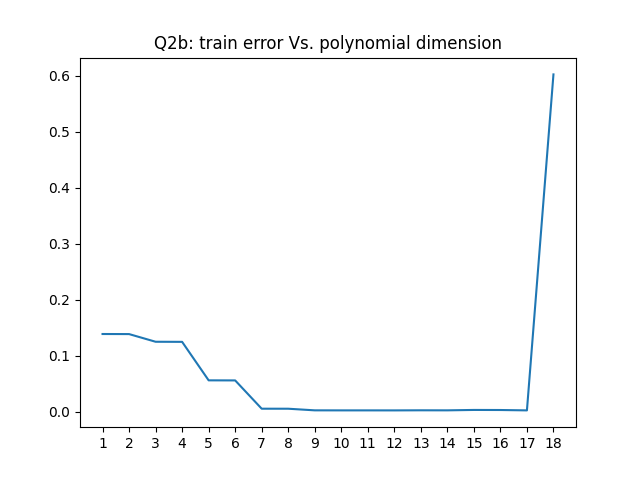
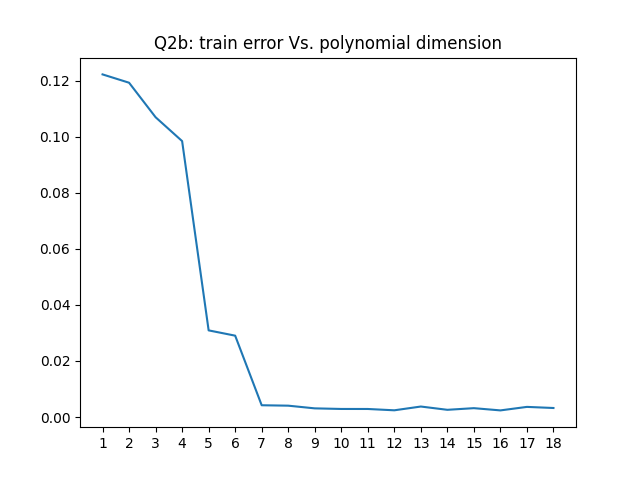
plotting fixed

diff --git a/q2.py b/q2.py
@@ -1,12 +1,11 @@
 import matplotlib.pyplot as plt
 import numpy as np
 from numpy import arange
-import seaborn as sns
 from polynomial_regression import PolynomialRegression
 from sys import exit
 from q1 import get_mse
 
-std = 0.07
+STD = 0.07
 
 
 def sin_function(x, epsilon):
@@ -14,7 +13,9 @@ def sin_function(x, epsilon):
 
 
 def random_sample(n_times):
-	return np.linspace(start=0, stop=1, num=n_times)
+	# return np.random.rand(n_times, 1)
+	return np.random.uniform(0, 1, n_times)
+	# return np.linspace(start=0, stop=1, num=n_times)
 
 
 def MSE(x_data, y_data, parameters, function):
@@ -36,10 +37,11 @@ if __name__ == '__main__':
 	# uniform random sampling
 	x_data = random_sample(n_times=30)
 	# adding noise to the sin graph
-	noise = np.random.normal(0, std, x_data.shape)
+	noise = np.random.normal(0, STD, x_data.shape[0])
 	y_data = sin_function(x_data, noise)
 	# scatter graph
-	plt.scatter(x=x_data, y=y_data)
+	plt.scatter(x_data, y_data)
+	# plt.scatter(x=x_data, y=y_data)
 
 	# superimpose sin(2 pi x) ^ 2 without noise
 	x_line = arange(0, 1, 0.005)
@@ -81,7 +83,11 @@ if __name__ == '__main__':
 			y_hat_k = model_fi_k.predict(X_train)
 
 			if not get_only_errors:
-				plt.plot(x_data, y_hat_k, label=f'k={k}', color=color_map[k])
+				plot_x = np.linspace(0, 1, 200)
+				plot_x = np.array([plot_x]).T
+				plot_y = model_fi_k.predict(plot_x)
+				plt.plot(plot_x, plot_y, label=f'k={k}', color=color_map[k])
+				# plt.plot(x_data, y_hat_k, label=f'k={k}', color=color_map[k])
 
 			# Calculate MSE as a training error
 			mse = get_mse(Y_train, y_hat_k)
@@ -92,7 +98,6 @@ if __name__ == '__main__':
 				assert test_data is not None
 				X_test, Y_test = test_data['X_test'], test_data['Y_test']
 				y_hat_test_k = model_fi_k.predict(X_test)
-				print(y_hat_test_k.shape)
 
 				# get test errors
 				mse_test = get_mse(Y_test, y_hat_test_k)
@@ -139,7 +144,7 @@ if __name__ == '__main__':
 	# generate a test set (X_test, Y_test) of a thousand points
 	x_test = random_sample(n_times=1000)
 	# adding noise to the sin graph
-	noise = np.random.normal(0, std, x_test.shape)
+	noise = np.random.normal(0, STD, x_test.shape[0])
 	y_test = sin_function(x_test, noise)
 
 	X_test = np.array([x_test]).T
@@ -162,3 +167,28 @@ if __name__ == '__main__':
 	plt.legend()
 	plt.xticks(bases)
 	plt.savefig('./plots/q2c.png')
+
+	exit(1)
+	###############
+	# Question 2d #
+	###############
+	# Average of 100 runs
+	train_errors, test_errors = np.zeros(shape=(100, 18)), np.zeros(shape=(100, 18))
+	for i in range(100):
+		# Train set generation
+		x_data = random_sample(n_times=30)
+		noise = np.random.normal(0, STD, x_data.shape)
+		y_data = sin_function(x_data, noise)
+		X_train = np.array([x_data]).T
+		Y_train = np.array(y_data)
+
+		# Test set generation
+		x_test = random_sample(n_times=1000)
+		noise = np.random.normal(0, STD, x_test.shape)
+		y_test = sin_function(x_test, noise)
+		X_test = np.array([x_test]).T
+		Y_test = np.array(y_test)
+		test_data = {
+			'X_test': X_test,
+			'Y_test': Y_test
+		}

diff --git a/polynomial_regression.py b/polynomial_regression.py
@@ -27,7 +27,7 @@ class PolynomialRegression:
         return X_transform
 
     # model training
-    def fit(self, X, Y, method='ne'):
+    def fit(self, X, Y):
         self.X = X
         self.Y = Y
 
